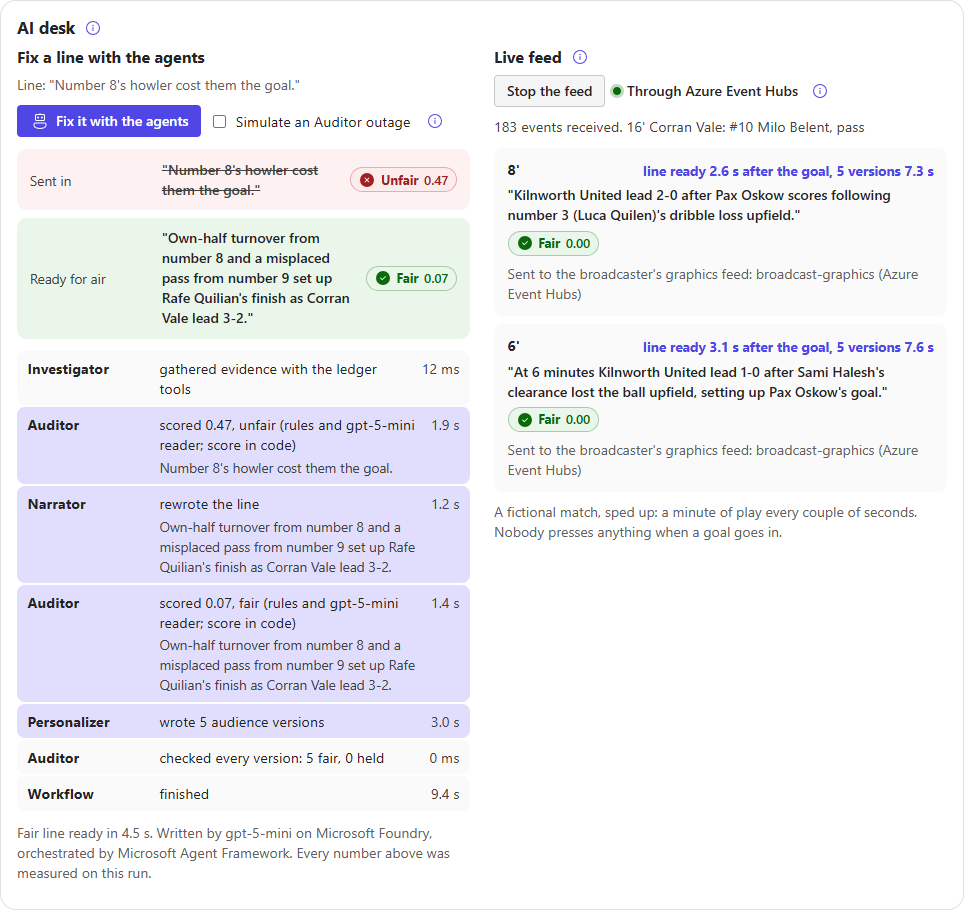
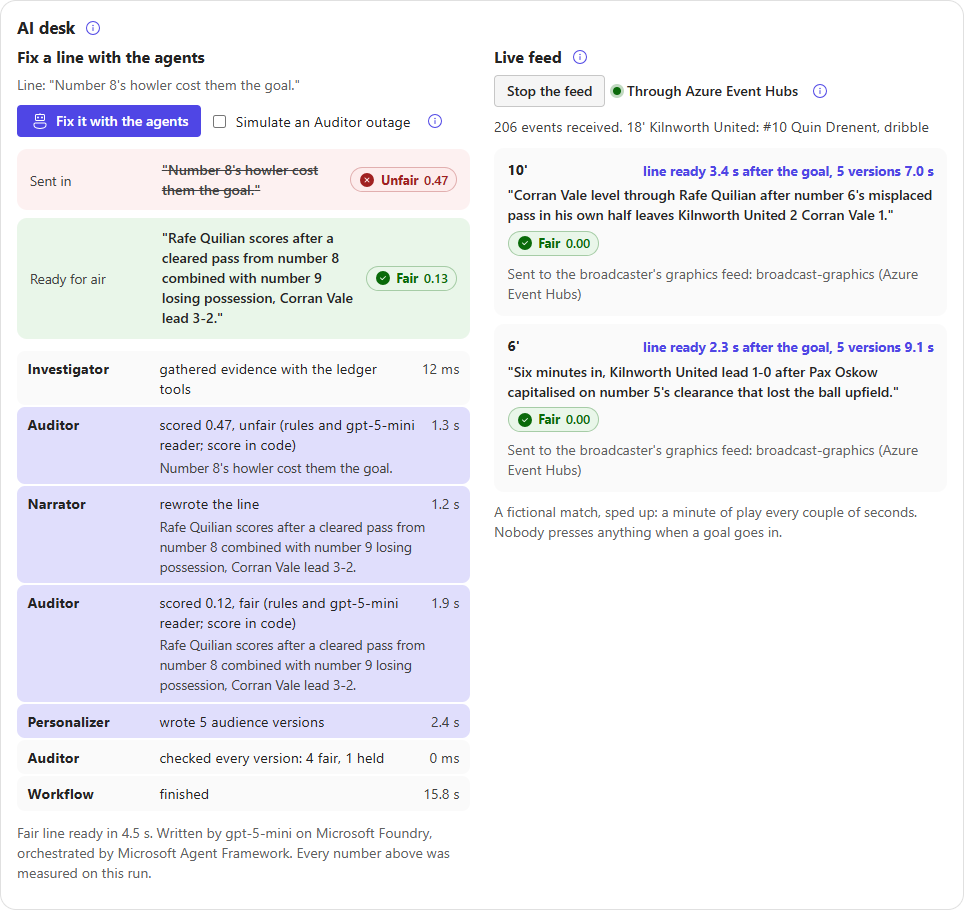
Live timings from 14 goals; trace scores round like the badge; padded hero shot

diff --git a/services/agents/workflow.py b/services/agents/workflow.py
@@ -99,6 +99,11 @@ def _ms(t0: float) -> int:
     return int((time.perf_counter() - t0) * 1000)
 
 
+def _si(si: float) -> str:
+    """Two decimals, rounding halves up like the browser's toFixed, so the trace matches the badge."""
+    return f"{int(si * 100 + 0.5) / 100:.2f}"
+
+
 # ---------------------------------------------------------------------------------- context
 def _store():
     from services.api.app import store
@@ -244,7 +249,7 @@ class Auditor(Executor):
         d.history.append({"text": d.text, "source": d.source, "si": res["si"], "verdict": res["verdict"],
                           "fact_errors": bad_facts})
         how = "rules and gpt-5-mini reader" if read_by_model else "rules"
-        ev.trace.append(Step("Auditor", f"scored {res['si']:.2f}, {res['verdict']} ({how}; score in code)", _ms(t0),
+        ev.trace.append(Step("Auditor", f"scored {_si(res['si'])}, {res['verdict']} ({how}; score in code)", _ms(t0),
                              d.text, model=read_by_model))
         if res["verdict"] == "unfair" and d.revisions < MAX_REVISIONS:
             d.reasons = res["reasons"] + [res["contrastive"]]
@@ -255,7 +260,7 @@ class Auditor(Executor):
             res = audit(fallback.text, ev.shares, store.roster(ev.facts["game_id"]), ev.facts["conceding_team_id"],
                         Policy(*ev.request.policy), goal=ev.facts["goal"]).to_dict()
             fallback.history.append({"text": fallback.text, "source": "template", "si": res["si"], "verdict": res["verdict"]})
-            ev.trace.append(Step("Auditor", f"revisions used up: fair template scored {res['si']:.2f}", 0, fallback.text))
+            ev.trace.append(Step("Auditor", f"revisions used up: fair template scored {_si(res['si'])}", 0, fallback.text))
             ev.line_ready_s = round(time.perf_counter() - ev.started, 2)
             await ctx.send_message(Approved(fallback, res))
         else:

diff --git a/README.md b/README.md
@@ -11,7 +11,7 @@
 
 | On a match day | |
 |---|---|
-| **2.6 s** | from a goal reaching Azure Event Hubs to a fair, checked line ready for air (median of the live goals so far; the slowest 1 in 20 took 3.1 s). All five audience versions follow by 7.3 s. |
+| **2.9 s** | from a goal reaching Azure Event Hubs to a fair, checked line ready for air (median of 14 live goals, two matches running at once; the slowest took 7.2 s). All five audience versions follow by 7.7 s. |
 | **$4.91 a season** | model cost to check every goal of a 380-match season, about 1.3 cents a match, from the tokens each agent call actually used |
 | **About 51 a season** | moments where a one-culprit story would be unfair. An estimate: real tournament data outside the Premier League shows 0.5 clear errors a match, and 27 percent of those share the blame. |
 | **0 false alarms in 130** | real cases where one player truly was to blame. It does not cry wolf: deserved blame is allowed. |
